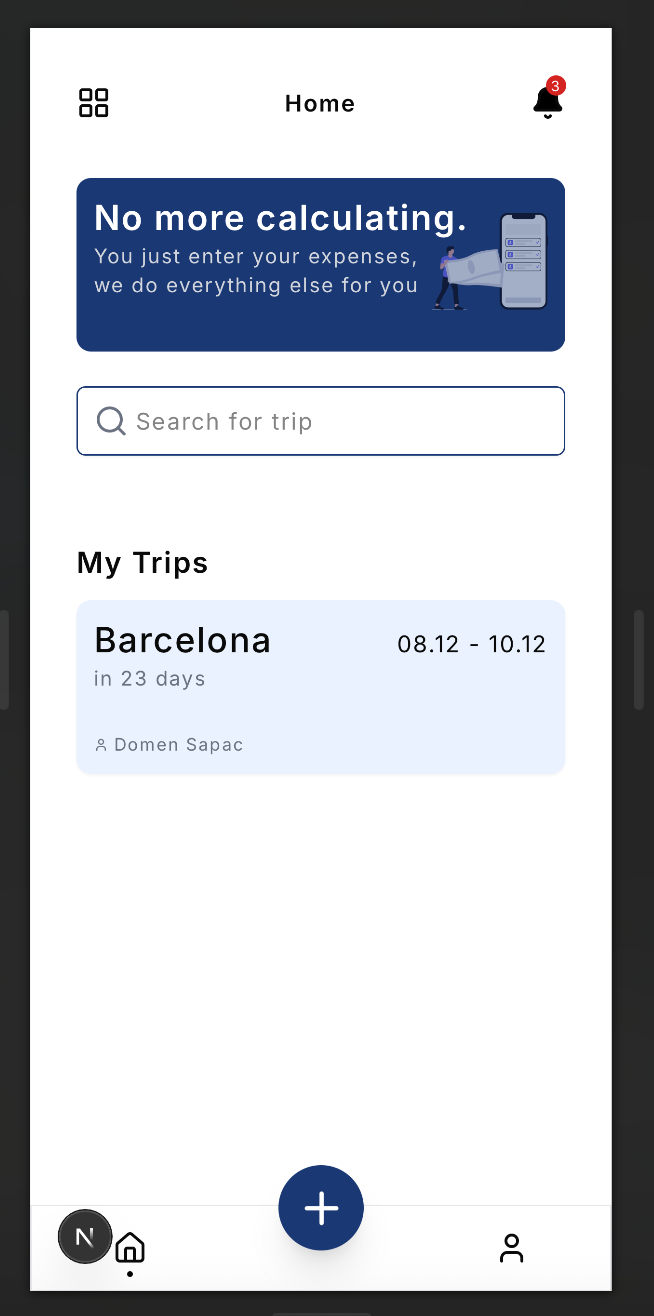
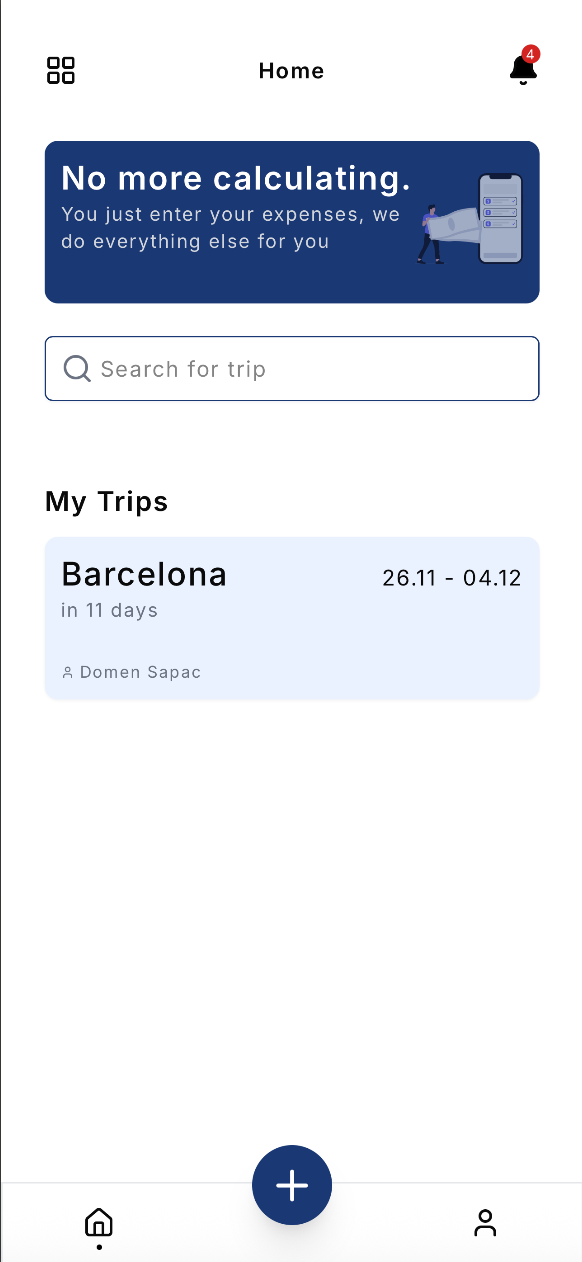
Updated images for readme

diff --git a/README.md b/README.md
@@ -1,8 +1,9 @@
 # WeTripping
 
 <p float="left">
-  <img src="./docs/screenshot-home.png" width="45%" />
-  <img src="./docs/screenshot-trip.png" width="45%" />
+  <img src="./docs/screenshot-home.png" height="500" />
+  <img src="./docs/screenshot-trip.png" height="500" />
+  <img src="./docs/screenshot-adding.png" height="500" />
 </p>
 
 Tracking your expenses while you are traveling in a group can be a pain. This is why I got inspired to build this project. You just create your trips, invite your friends to join them and enter the expenses. The app does the calculating. 
